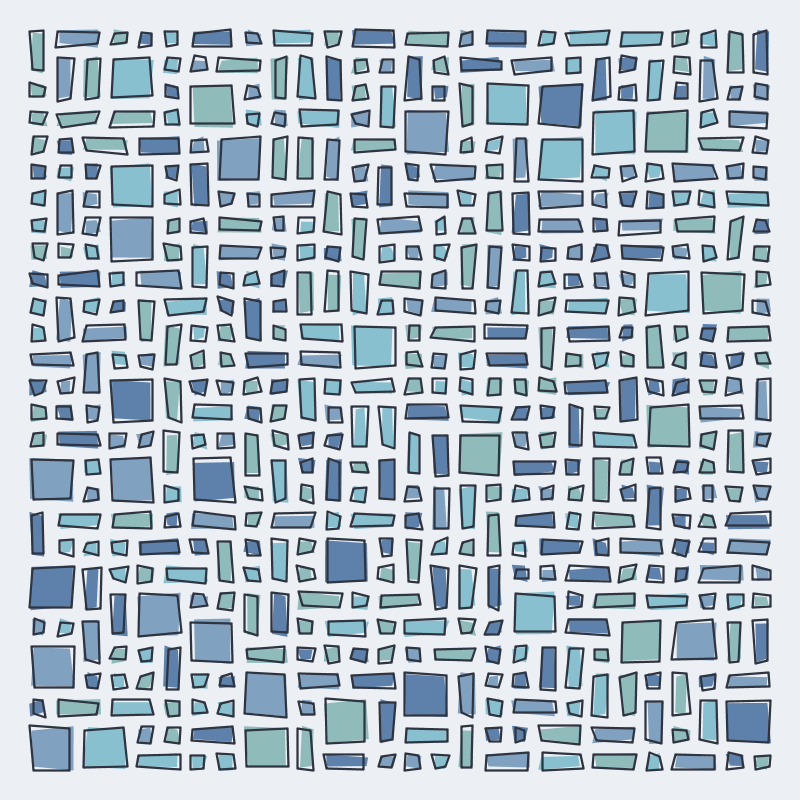
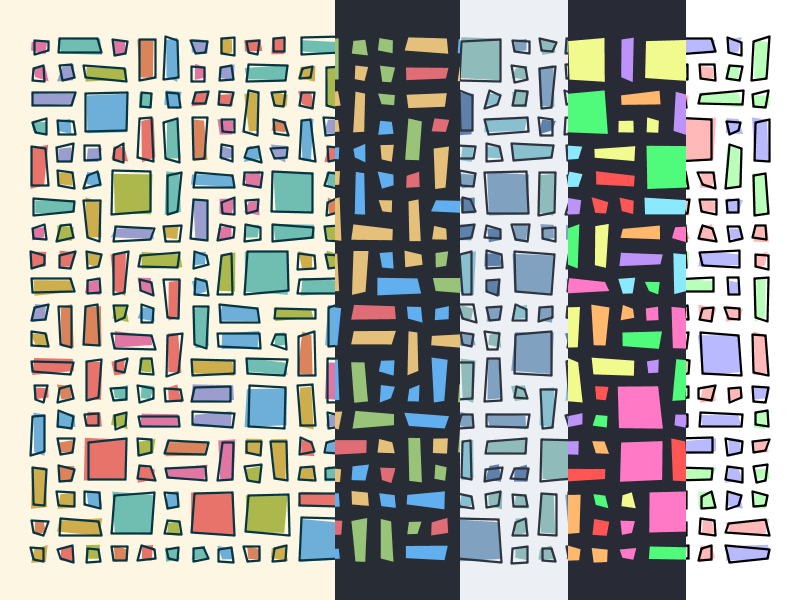
Add more color styles

diff --git a/style.py b/style.py
@@ -1,5 +1,13 @@
+# Dear Contributor,
+# Two rules: 
+#   1. first insert a new styles alphabetically
+#   2. add the new style to the `Styles` list at the bottom of this file
+
+
+# A basic class to store all relevant informations
 class Style:
-    def __init__(self, background, stroke, disableBorder, alpha, colors):
+    def __init__(self, name, background, stroke, disableBorder, alpha, colors):
+        self.name = name
         self.background = background
         self.stroke = stroke
         self.disableBorder = disableBorder
@@ -7,11 +15,13 @@ class Style:
         self.colors = colors
 
 
+# A simple constant
 NO_ALPHA = "FF"
 
 
-# Note: Use a border
+# Default color scheme for testing
 Default = Style(
+    name="Default",
     background=255,
     stroke=0,
     disableBorder=False,
@@ -20,8 +30,8 @@ Default = Style(
 )
 
 # Inspired by: https://draculatheme.com/
-# Note: Don't use a border
 Dracula = Style(
+    name="Dracula",
     background=unhex("282a36"),
     stroke=unhex("f8f8f2"),
     disableBorder=True,
@@ -30,8 +40,8 @@ Dracula = Style(
 )
 
 # Inspired by: https://www.nordtheme.com/
-# Note: Use a border
 Nord = Style(
+    name="Nord",
     background=unhex("eceff4"),
     stroke=unhex(NO_ALPHA + "2e3440"),
     disableBorder=False,
@@ -39,7 +49,58 @@ Nord = Style(
     colors=["8fbcbb", "88c0d0", "81a1c1", "5e81ac",],
 )
 
-Styles = [Default, Dracula, Nord]
+# Inspired by: https://github.com/joshdick/onedark.vim
+One = Style(
+    name="One",
+    background=unhex("282C34"),
+    stroke=unhex(NO_ALPHA + "ABB2BF"),
+    disableBorder=True,
+    alpha=NO_ALPHA,
+    colors=["E06C75", "98C379", "E5C07B", "61AFEF",],
+)
+
+# Inspired by: https://ethanschoonover.com/solarized/
+Solarized = Style(
+    name="Solarized",
+    background=unhex("fdf6e3"),
+    stroke=unhex(NO_ALPHA + "073642"),
+    disableBorder=False,
+    alpha="AA",
+    # Colors are: yellow, orange, red, magenta, violet, blue, cyan, green
+    colors=[
+        "b58900",
+        "cb4b16",
+        "dc322f",
+        "d33682",
+        "6c71c4",
+        "268bd2",
+        "2aa198",
+        "859900",
+    ],
+)
+
+# Inspired by: https://ethanschoonover.com/solarized/
+Solarized_Dark = Style(
+    name="Solarized_Dark",
+    background=unhex("002b36"),
+    stroke=unhex(NO_ALPHA + "93a1a1"),
+    disableBorder=False,
+    alpha="88",
+    # Colors are: yellow, orange, red, magenta, violet, blue, cyan, green
+    colors=[
+        "b58900",
+        "cb4b16",
+        "dc322f",
+        "d33682",
+        "6c71c4",
+        "268bd2",
+        "2aa198",
+        "859900",
+    ],
+)
+
+# A list of all styles
+Styles = [Default, Dracula, One, Nord, Solarized, Solarized_Dark]
 
 
 def randomStyle():
